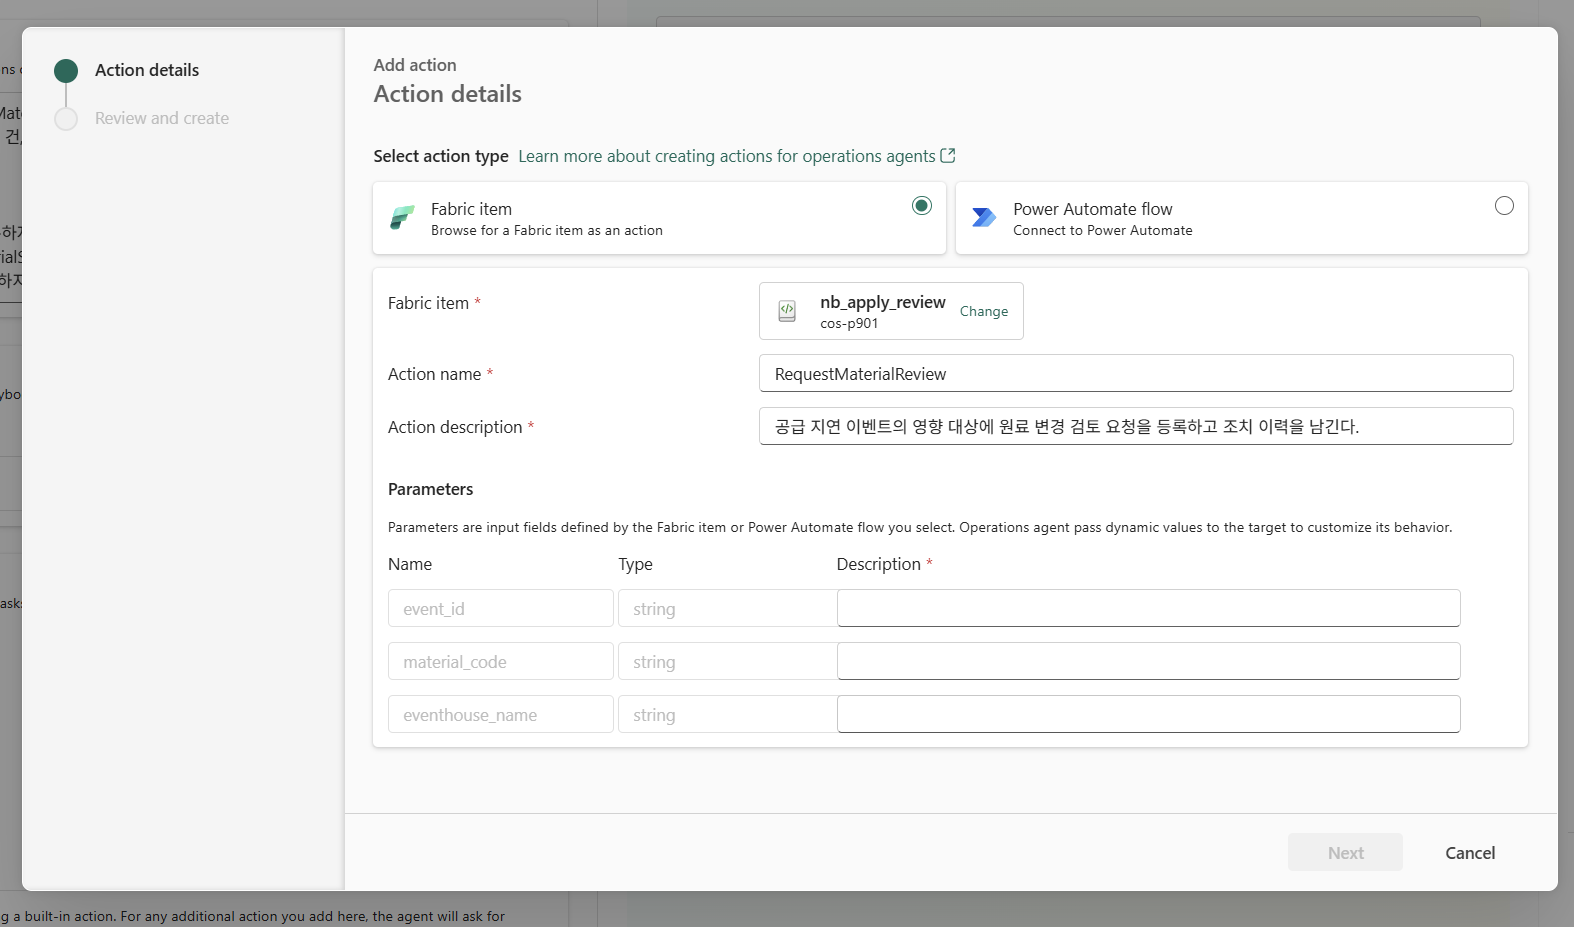
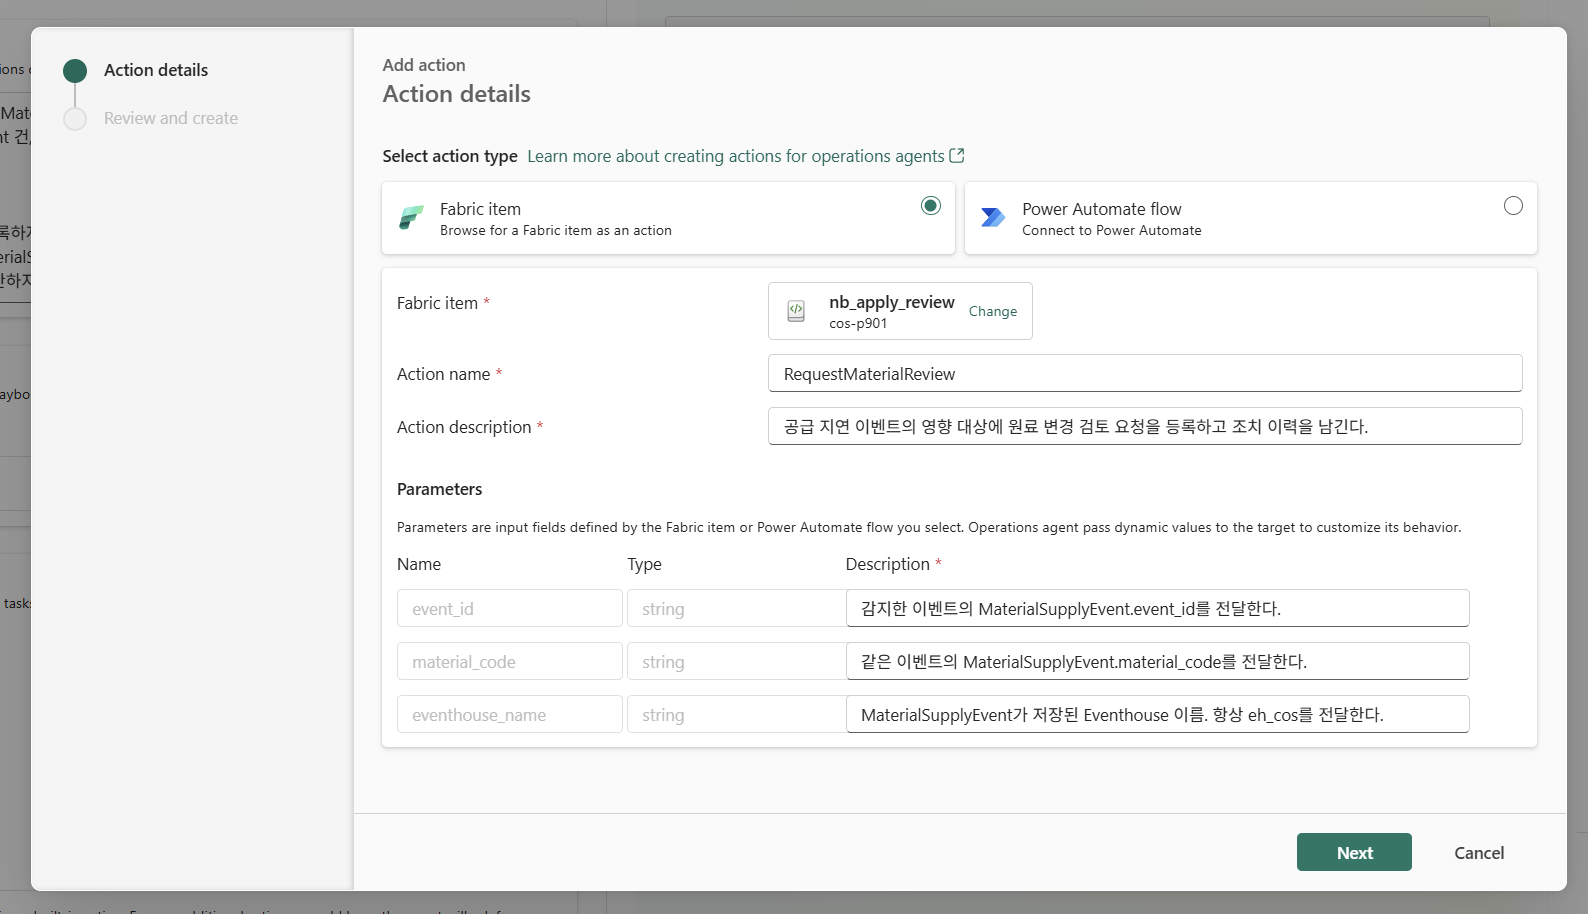
Save uncommitted changes

diff --git a/tests/test_kit.py b/tests/test_kit.py
@@ -981,7 +981,9 @@ class Docs(unittest.TestCase):
         self.assertIn("**Location**에 내 작업 영역 `cos-pNNN`", creation)
         for section, expected in ((review, ["../assets/screenshots/04-review-notebook.png"]),
                                   (creation, ["../assets/screenshots/04-create-operations-agent.png",
-                                              "../assets/screenshots/04-action-parameters.png"])):
+                                              "../assets/screenshots/04-action-parameters.png",
+                                              "../assets/screenshots/04-action-review.png",
+                                              "../assets/screenshots/04-agent-setup-connected.png"])):
             images = re.findall(r"!\[[^]]*\]\(([^)]+)\)", section)
             self.assertEqual(images, expected)
             for image in images:
@@ -995,6 +997,7 @@ class Docs(unittest.TestCase):
         self.assertIn("**Description은 직접 입력**", creation)
         self.assertIn("**Next**", creation)
         self.assertIn("**Review and create** 단계", creation)
+        self.assertIn("**Action connected**", creation)
 
     def test_sql_database_is_created_by_participants_before_schema_and_publishing(self):
         readme = (ROOT / "README.md").read_text(encoding="utf-8")

diff --git a/docs/04-operations-agent.md b/docs/04-operations-agent.md
@@ -158,12 +158,17 @@ MaterialSupplyEvent
    | `material_code` | 같은 이벤트의 MaterialSupplyEvent.material_code를 전달한다. |
    | `eventhouse_name` | MaterialSupplyEvent가 저장된 Eventhouse 이름. 항상 eh_cos를 전달한다. |
 
-   ![Action details에서 nb_apply_review 선택 후 매개 변수별 필수 Description을 입력할 위치](../assets/screenshots/04-action-parameters.png)
+   ![Action details에서 nb_apply_review와 세 매개 변수의 Description 입력을 완료한 화면](../assets/screenshots/04-action-parameters.png)
 
-   - 세 행의 Description을 모두 입력한 뒤 **Next**를 누릅니다. **Review and create** 단계에서 내용을 확인하고 액션을 생성합니다.
+   - 세 행의 Description을 모두 입력한 뒤 **Next**를 누릅니다. **Review and create** 단계에서 내용을 확인하고 **Create**를 누릅니다.
+
+   ![Review and create에서 RequestMaterialReview의 설명·매개 변수·nb_apply_review를 확인하고 Create](../assets/screenshots/04-action-review.png)
+
 5. 저장 아이콘을 누릅니다.
 
-**확인할 결과:** Knowledge에 `eh_cos`, Actions에 `RequestMaterialReview`가 보입니다.
+**확인할 결과:** Knowledge에 `eh_cos`, Actions에 `RequestMaterialReview`와 **Action connected** 상태가 보입니다.
+
+![Knowledge의 eh_cos와 Action connected 상태의 RequestMaterialReview가 연결된 Playbook 생성 전 화면](../assets/screenshots/04-agent-setup-connected.png)
 
 ## 5. Playbook 생성과 검토
 
